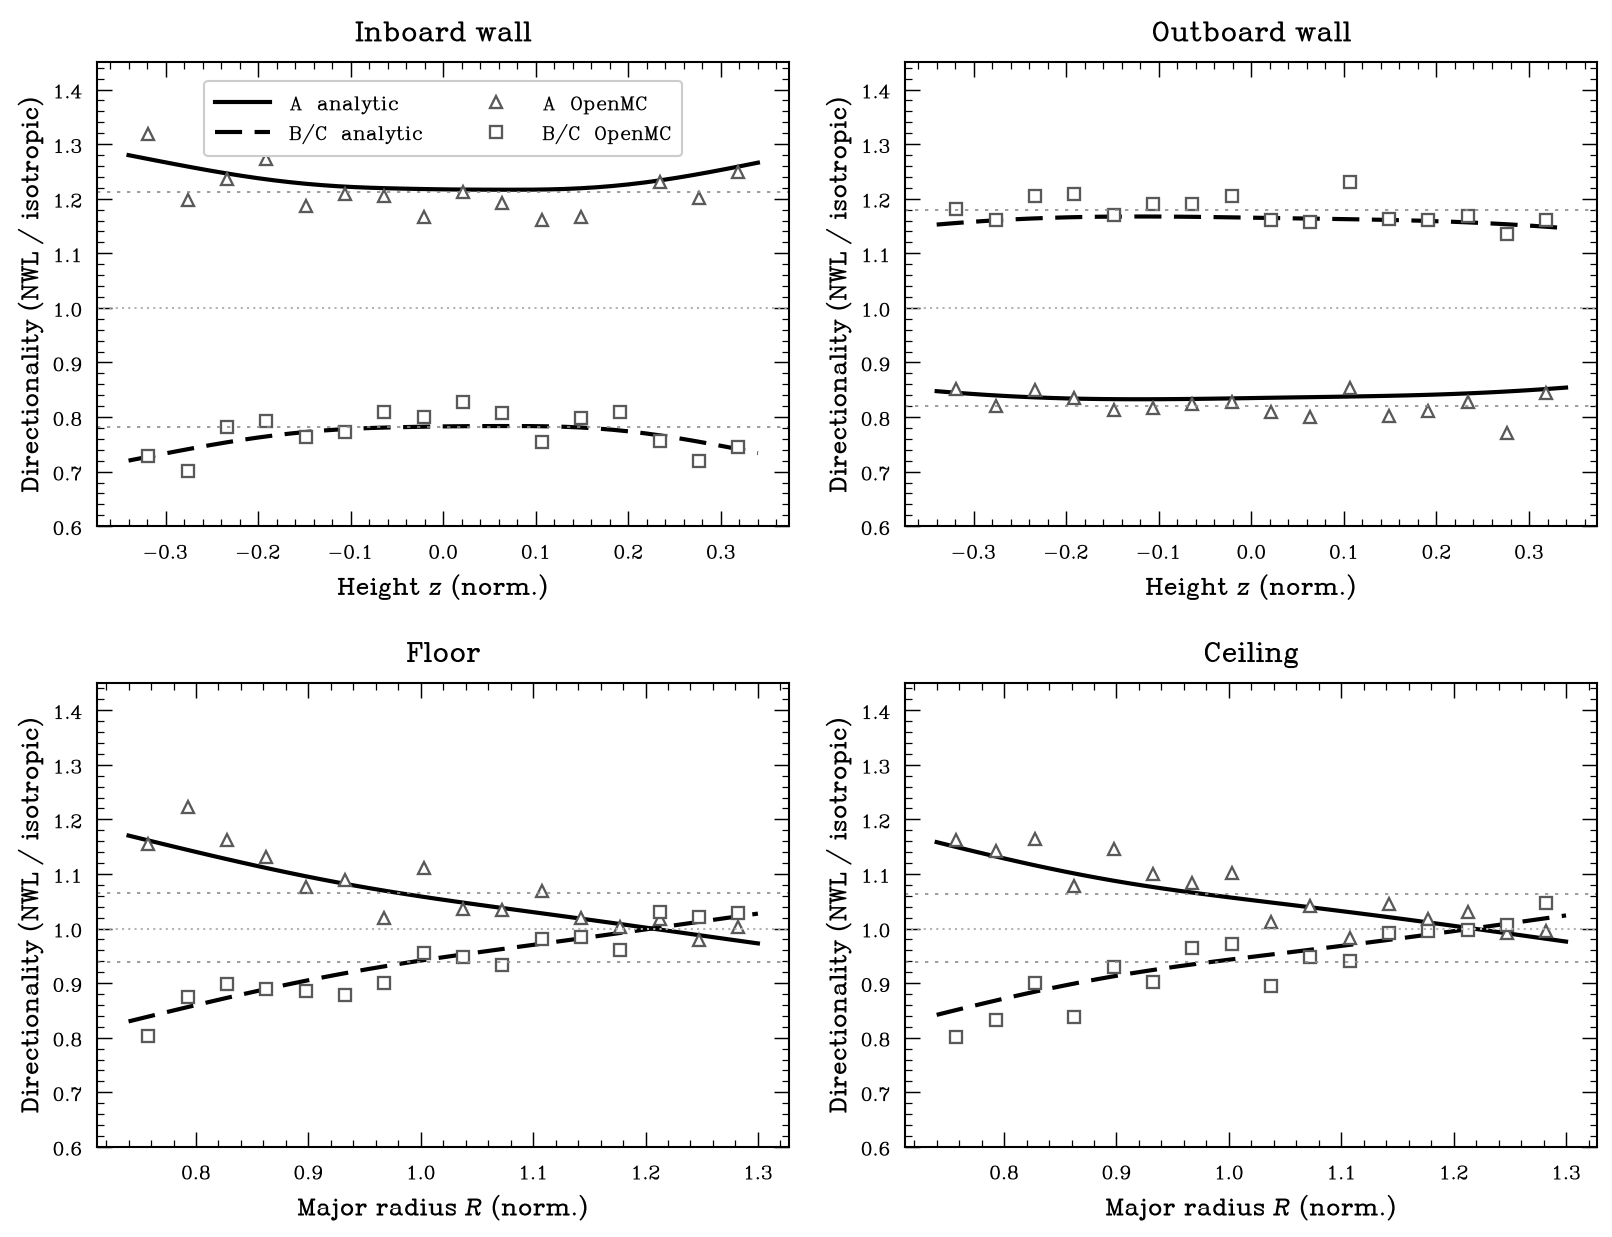
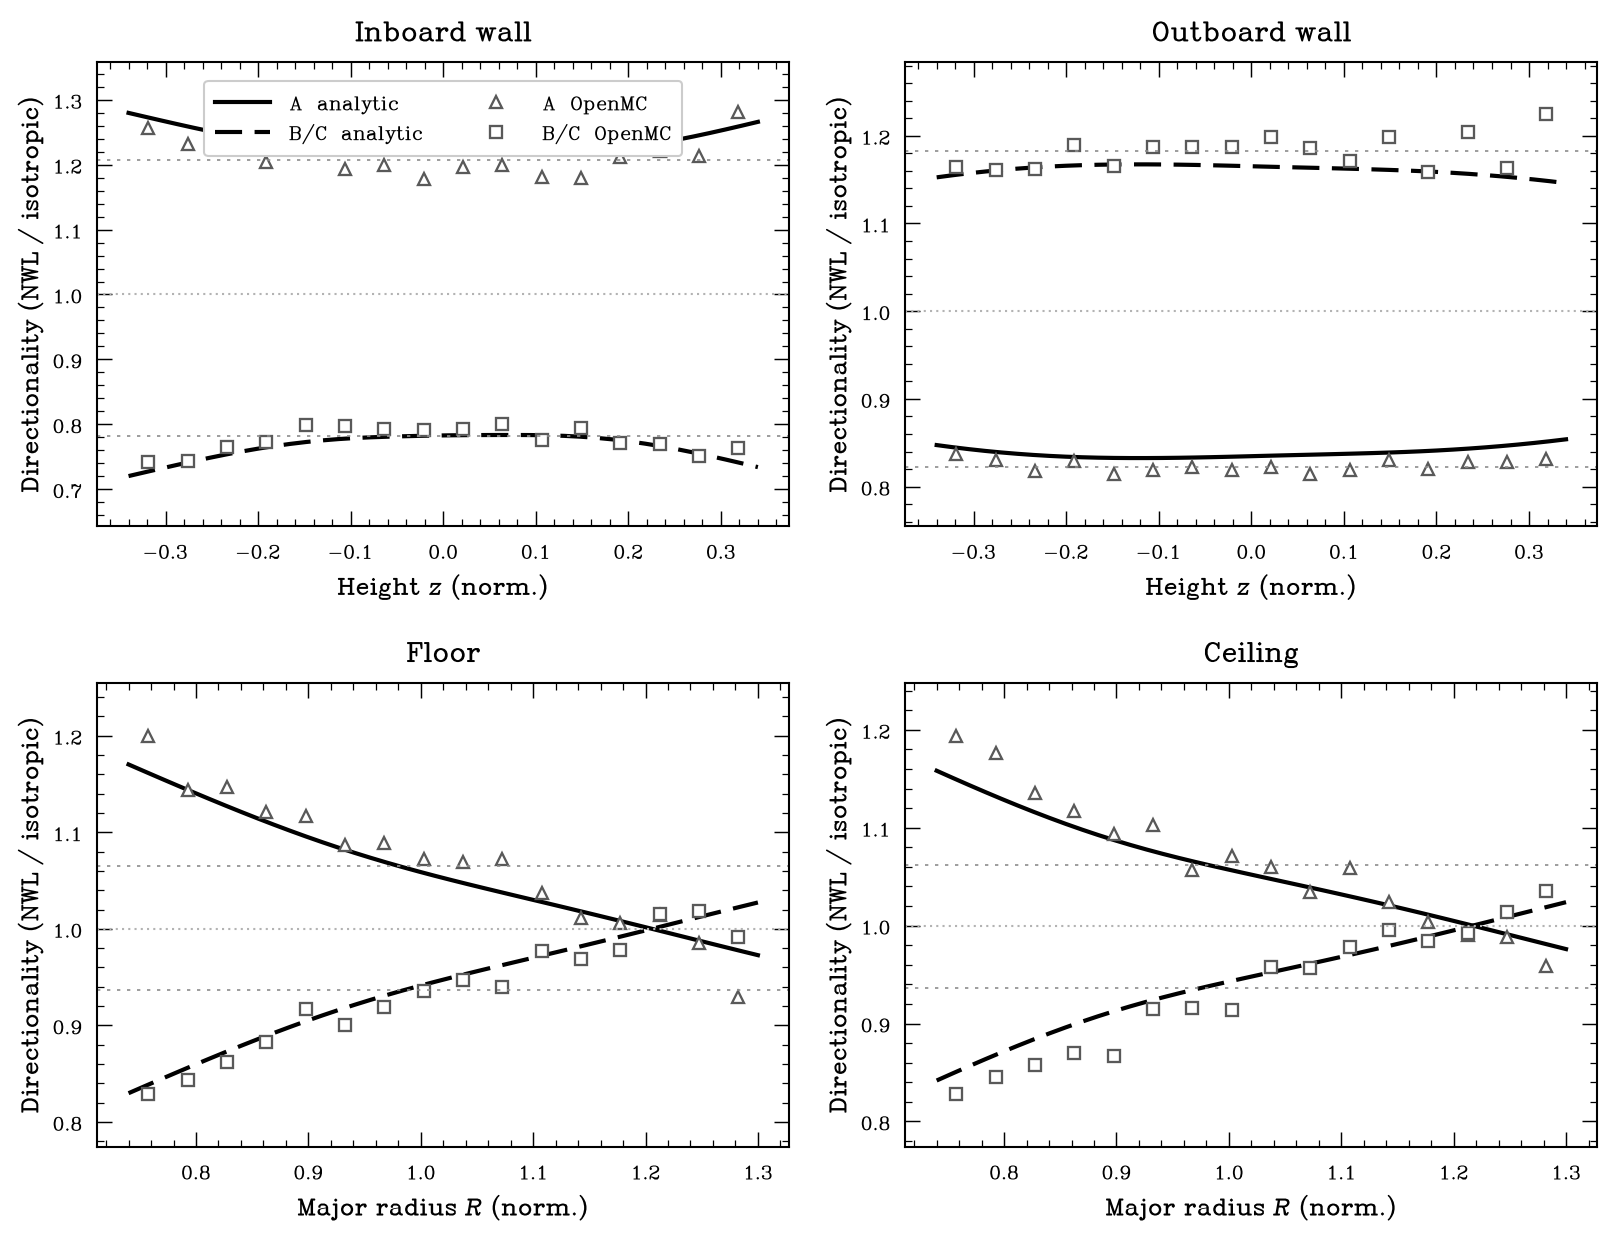
spf_prototype: vectorized presampler + 1M births + per-panel y-limits (per-bin profiles)
Addresses a real figure-readability issue: on the QUASR plot the OpenMC markers looked
flat against the curved analytic. Investigation showed MC actually DOES track the
analytic poloidal profile (per-bin corr floor 0.97, ceiling 0.99, inboard 0.76; the
outboard wall is genuinely flat in both, spread ~0.015) -- the shared wide y-axis plus
per-bin noise were hiding the real, small curvature.

Fixes:
- toy_qalow_openmc.py: presampler vectorized (geometry+field per rho group; configs now
  accept an array of theta), so large banks are cheap. N_PER_MODE 3e5 -> 1e6, batches
  10 -> 5 (the free-streaming mean is bank-determined). Per-bin noise sd ~0.04 -> ~0.02.
- quasr_config.py: loop_RZ/field_bhat broadcast theta against phi (vectorized eval).
- plot_toy_qalow.py: per-panel y-limits (walls differ ~10x in curvature) so the real
  trends are visible instead of compressed into a flat-looking band.
- Re-ran both configs at 1e6; worst-wall agreement unchanged (toy 2.2%, QUASR 4.4%),
  per-bin scatter cleaner. RESULTS_{toy_qalow,quasr}.md updated with the 1e6 numbers and
  the per-bin shape-tracking correlations; figures regenerated.

diff --git a/spf_prototype/python/toy_qalow_openmc.py b/spf_prototype/python/toy_qalow_openmc.py
@@ -24,37 +24,46 @@ import openmc  # noqa: E402
 C = importlib.import_module(os.environ.get("SPF_CONFIG", "toy_qalow_config"))  # noqa: E402
 import spf_mirror as mir  # noqa: E402
 
-N_PER_MODE = 300_000
+N_PER_MODE = 1_000_000
 NR = NZ = 16                  # match analytic n_per_wall
-PHI_J = np.linspace(0, 2 * np.pi, 256, endpoint=False)
 
 
 def presample(mode_abc, seed_pos, seed_dir):
     """Birth bank for one mode: same positions (seed_pos) for all modes; directions
-    (seed_dir) about the local toy field. wgt = w_loop * J(phi) (arc-length)."""
+    (seed_dir) about the local field. wgt = w_loop * J(phi) (arc-length).
+
+    Geometry+field are evaluated VECTORIZED (per rho group) -- the configs accept an
+    array of theta -- so large banks are affordable; only the bit-parity direction
+    draw stays per particle, preserving the mirror RNG sequence."""
     m = mir.make_mode_weights(*mode_abc)
     loops = C.loops()
     rng_pos = np.random.default_rng(seed_pos)
     rng_dir = mir.Rng(seed_dir)
-    # choose loops uniformly; weight carries w_loop. phi uniform; weight carries J.
     li = rng_pos.integers(0, len(loops), N_PER_MODE)
     phi = rng_pos.uniform(0, 2 * np.pi, N_PER_MODE)
-    parts = []
-    for k in range(N_PER_MODE):
-        rho, th, w = loops[li[k]]
-        ph = np.array([phi[k]])
-        R, Z = C.loop_RZ(th, ph, rho)
-        # arc-length Jacobian J = sqrt(R^2 + R'^2 + Z'^2) via finite diff in phi
-        dph = 1e-4
+    rho_arr = np.array([loops[i][0] for i in li])
+    th_arr = np.array([loops[i][1] for i in li])
+    w_arr = np.array([loops[i][2] for i in li])
+    R = np.empty(N_PER_MODE); Z = np.empty(N_PER_MODE); J = np.empty(N_PER_MODE)
+    Bh = np.empty((N_PER_MODE, 3))
+    dph = 1e-4
+    for rho in np.unique(rho_arr):
+        sel = rho_arr == rho
+        th = th_arr[sel]; ph = phi[sel]
+        Rs, Zs = C.loop_RZ(th, ph, rho)
         Rp, Zp = C.loop_RZ(th, ph + dph, rho)
         Rm, Zm = C.loop_RZ(th, ph - dph, rho)
         dR = (Rp - Rm) / (2 * dph); dZ = (Zp - Zm) / (2 * dph)
-        J = float(np.sqrt(R[0] ** 2 + dR[0] ** 2 + dZ[0] ** 2))
-        x, y, z = R[0] * np.cos(phi[k]), R[0] * np.sin(phi[k]), Z[0]
-        Bhat = tuple(C.field_bhat(th, ph)[0])
-        u = mir.sample_global_direction(m, Bhat, rng_dir)
-        parts.append(openmc.SourceParticle(r=(x, y, z), u=u, E=14.1e6,
-                                           wgt=w * J, particle=openmc.ParticleType.NEUTRON))
+        R[sel] = Rs; Z[sel] = Zs
+        J[sel] = np.sqrt(Rs ** 2 + dR ** 2 + dZ ** 2)
+        Bh[sel] = C.field_bhat(th, ph)
+    x = R * np.cos(phi); y = R * np.sin(phi)
+    parts = []
+    for k in range(N_PER_MODE):
+        u = mir.sample_global_direction(m, (Bh[k, 0], Bh[k, 1], Bh[k, 2]), rng_dir)
+        parts.append(openmc.SourceParticle(r=(x[k], y[k], Z[k]), u=u, E=14.1e6,
+                                           wgt=w_arr[k] * J[k],
+                                           particle=openmc.ParticleType.NEUTRON))
     return parts
 
 
@@ -67,7 +76,7 @@ def make_model(src_path):
     vessel = openmc.Cell(region=+inner & -outer & +bot & -top, fill=None)
     geom = openmc.Geometry([vessel])
     s = openmc.Settings()
-    s.run_mode = "fixed source"; s.particles = N_PER_MODE; s.batches = 10; s.inactive = 0
+    s.run_mode = "fixed source"; s.particles = N_PER_MODE; s.batches = 5; s.inactive = 0
     s.source = openmc.FileSource(src_path)
     mesh = openmc.CylindricalMesh(
         r_grid=np.linspace(C.R_IN, C.R_OUT, NR + 1),

diff --git a/spf_prototype/python/quasr_config.py b/spf_prototype/python/quasr_config.py
@@ -44,16 +44,20 @@ Z_W = float(np.abs(_Z).max() + GAP_A * _A)
 
 
 def loop_RZ(theta_s, phi, rho):
-    """R(phi), Z(phi) of the loop at poloidal angle theta_s on flux surface rho."""
-    th = np.full_like(np.asarray(phi, dtype=float), float(theta_s))
-    return _DEV.RZ(th, np.asarray(phi, dtype=float), rho)
+    """R(phi), Z(phi) of the loop at poloidal angle theta_s on flux surface rho.
+    theta_s may be a scalar (one loop) or an array broadcast against phi (vectorized
+    presampling, one theta per particle)."""
+    phi = np.asarray(phi, dtype=float)
+    th = np.broadcast_to(np.asarray(theta_s, dtype=float), phi.shape)
+    return _DEV.RZ(th, phi, rho)
 
 
 def field_bhat(theta_s, phi):
     """Unit flux-surface-tangent field along the loop (boundary field, rho=1),
-    Cartesian (...,3) -- identical on both validation sides."""
-    th = np.full_like(np.asarray(phi, dtype=float), float(theta_s))
-    return _DEV.bhat(th, np.asarray(phi, dtype=float), 1.0)
+    Cartesian (...,3) -- identical on both validation sides. theta_s scalar or array."""
+    phi = np.asarray(phi, dtype=float)
+    th = np.broadcast_to(np.asarray(theta_s, dtype=float), phi.shape)
+    return _DEV.bhat(th, phi, 1.0)
 
 
 def loops():

diff --git a/spf_prototype/python/plot_toy_qalow.py b/spf_prototype/python/plot_toy_qalow.py
@@ -81,7 +81,12 @@ def fig_directionality(an, mc):
         ax.axhline(1.0, color="0.7", lw=1.0, ls=(0, (1, 2)))
         ax.set_title(WALL_TITLE[wall])
         ax.set_xlabel(XLAB[wall]); ax.set_ylabel("Directionality (NWL / isotropic)")
-        ax.set_ylim(0.6, 1.45)
+        # per-panel y-limits so the real curvature is visible (walls differ a lot)
+        vals = np.concatenate([Aa, Ba,
+                               mc_ratio(mc, wall, "A")[1], mc_ratio(mc, wall, "B")[1]])
+        vals = vals[np.isfinite(vals)]
+        lo, hi = vals.min(), vals.max(); pad = 0.12 * (hi - lo) + 0.01
+        ax.set_ylim(lo - pad, hi + pad)
     axes[0, 0].legend(loc="upper center", ncol=2, frameon=True, handlelength=2.4)
     fig.tight_layout()
     for ext in ("pdf", "png"):

diff --git a/spf_prototype/RESULTS_quasr.md b/spf_prototype/RESULTS_quasr.md
@@ -36,22 +36,31 @@ model (below) — no simsopt at run time.
   1.223], |Z|<0.264). Axisymmetric; all non-axisymmetry is in the source.
 - **Analytic:** anarrima `free_streaming_quadrature(normalize=True)`, 384 nodes, trig
   order K=34 (≥ max |n|·nfp = 30); loop reconstruction max|err| **6.7e-16**.
-- **OpenMC:** 3×10⁵ pre-sampled births/mode, free-streaming into the void wall.
+- **OpenMC:** 1×10⁶ pre-sampled births/mode (vectorized presampler), free-streaming
+  into the void wall.
 
 ## Result — agreement to MC statistics
 Per-wall directionality A/iso, B/iso (the SPF steering):
 
 | wall | A/iso MC | A/iso ana | rel | B/iso MC | B/iso ana | rel |
 |---|---|---|---|---|---|---|
-| inboard | 1.247 | 1.210 | 3.0% | 0.758 | 0.790 | 4.0% |
-| outboard | 0.839 | 0.856 | 2.0% | 1.166 | 1.144 | 1.9% |
-| floor | 1.042 | 1.055 | 1.2% | 0.958 | 0.945 | 1.4% |
-| ceiling | 1.040 | 1.055 | 1.4% | 0.947 | 0.945 | 0.2% |
+| inboard | 1.246 | 1.210 | 3.0% | 0.755 | 0.790 | 4.4% |
+| outboard | 0.834 | 0.856 | 2.6% | 1.162 | 1.144 | 1.6% |
+| floor | 1.048 | 1.055 | 0.7% | 0.958 | 0.945 | 1.3% |
+| ceiling | 1.044 | 1.055 | 1.0% | 0.955 | 0.945 | 1.0% |
 
-**Worst-wall discrepancy 4.0%** (inboard B/iso — lowest-current wall, noisiest); most
+**Worst-wall discrepancy 4.4%** (inboard B/iso — lowest-current wall, noisiest); most
 walls 1–3%. Consistent with MC statistics. Physics as expected: A (∝sin²θ) enhances
 the inboard/floor and suppresses the outboard load; B/C (∝¼+¾cos²θ) is the mirror image
 — now on a real QA at ε_eff≈0.43, three× more shaped than the toy.
+
+**Per-bin (not just per-wall) shape is reproduced.** OpenMC tracks the analytic
+*poloidal profile* along each wall, not only the wall average: correlation MC↔analytic
+per bin is **0.97 (floor), 0.99 (ceiling), 0.76 (inboard)**; the outboard wall is
+genuinely nearly flat in both (analytic spread only ~0.015), so there MC scatters
+about a flat line. Per-bin |rel err| mean 2.5%, median 1.9% (see
+`quasr59509_agreement`). The figure uses per-panel y-limits because the walls differ
+by ~10× in curvature; a shared wide axis makes the (real) trends look flat.
 
 Figures (`SPF_CONFIG=quasr_config plot_toy_qalow.py` -> `figs/`):
 `quasr59509_directionality` (profiles, analytic vs OpenMC, 4 walls),

diff --git a/spf_prototype/RESULTS_toy_qalow.md b/spf_prototype/RESULTS_toy_qalow.md
@@ -19,17 +19,18 @@ CSG wall, no DAGMC).
   the emission about the local field.
 
 ## Result — agreement to MC statistics
-OpenMC free-streaming (3×10⁵ pre-sampled births/mode via the bit-parity mirror
-sampler) vs anarrima exact quadrature (384 nodes, 40 wall patches/wall):
+OpenMC free-streaming (1×10⁶ pre-sampled births/mode via the bit-parity mirror
+sampler, vectorized presampler) vs anarrima exact quadrature (384 nodes, 40 wall
+patches/wall):
 
 | wall | A/iso MC | A/iso ana | rel | B/iso MC | B/iso ana | rel |
 |---|---|---|---|---|---|---|
-| inboard | 1.212 | 1.234 | 1.8% | 0.781 | 0.766 | 2.0% |
-| outboard | 0.821 | 0.839 | 2.1% | 1.179 | 1.161 | 1.6% |
-| floor | 1.064 | 1.060 | 0.4% | 0.938 | 0.940 | 0.2% |
-| ceiling | 1.064 | 1.057 | 0.6% | 0.939 | 0.943 | 0.4% |
+| inboard | 1.207 | 1.234 | 2.2% | 0.782 | 0.766 | 2.1% |
+| outboard | 0.823 | 0.839 | 1.9% | 1.182 | 1.161 | 1.8% |
+| floor | 1.065 | 1.060 | 0.5% | 0.937 | 0.940 | 0.4% |
+| ceiling | 1.062 | 1.057 | 0.5% | 0.937 | 0.943 | 0.7% |
 
-**Worst-wall discrepancy 2.1%** (all walls 0.2–2.1%). Consistent with MC statistics.
+**Worst-wall discrepancy 2.2%** (all walls 0.4–2.2%). Consistent with MC statistics.
 The physics is the expected SPF steering: A (∝sin²θ) enhances the inboard / floor and
 suppresses the outboard load; B/C (∝¼+¾cos²θ) is the mirror image.
 
